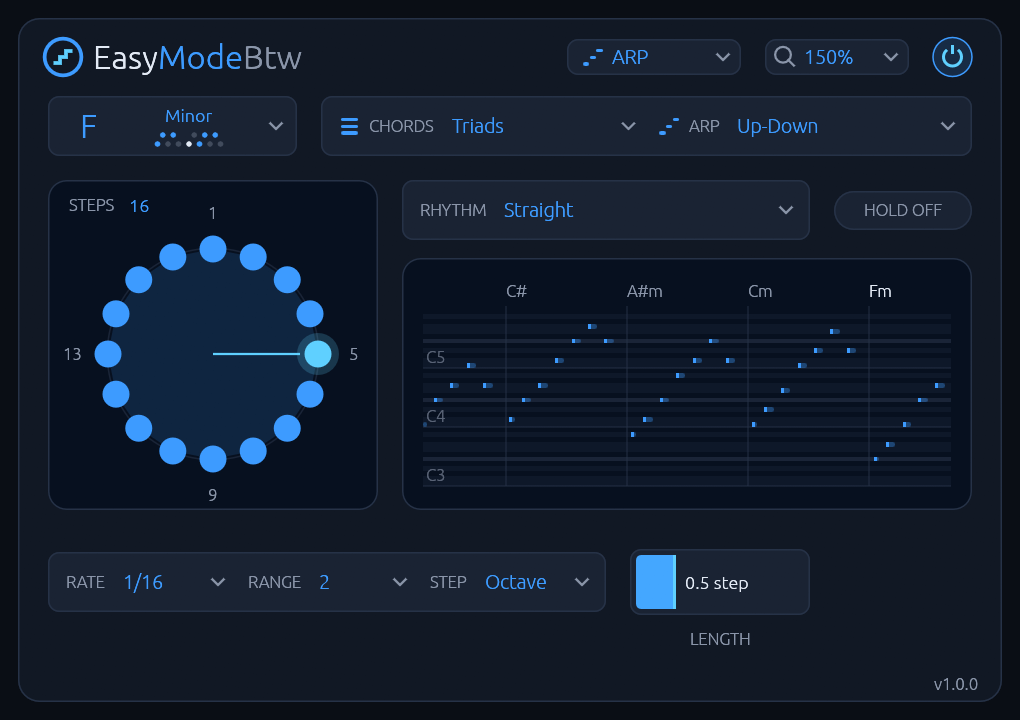
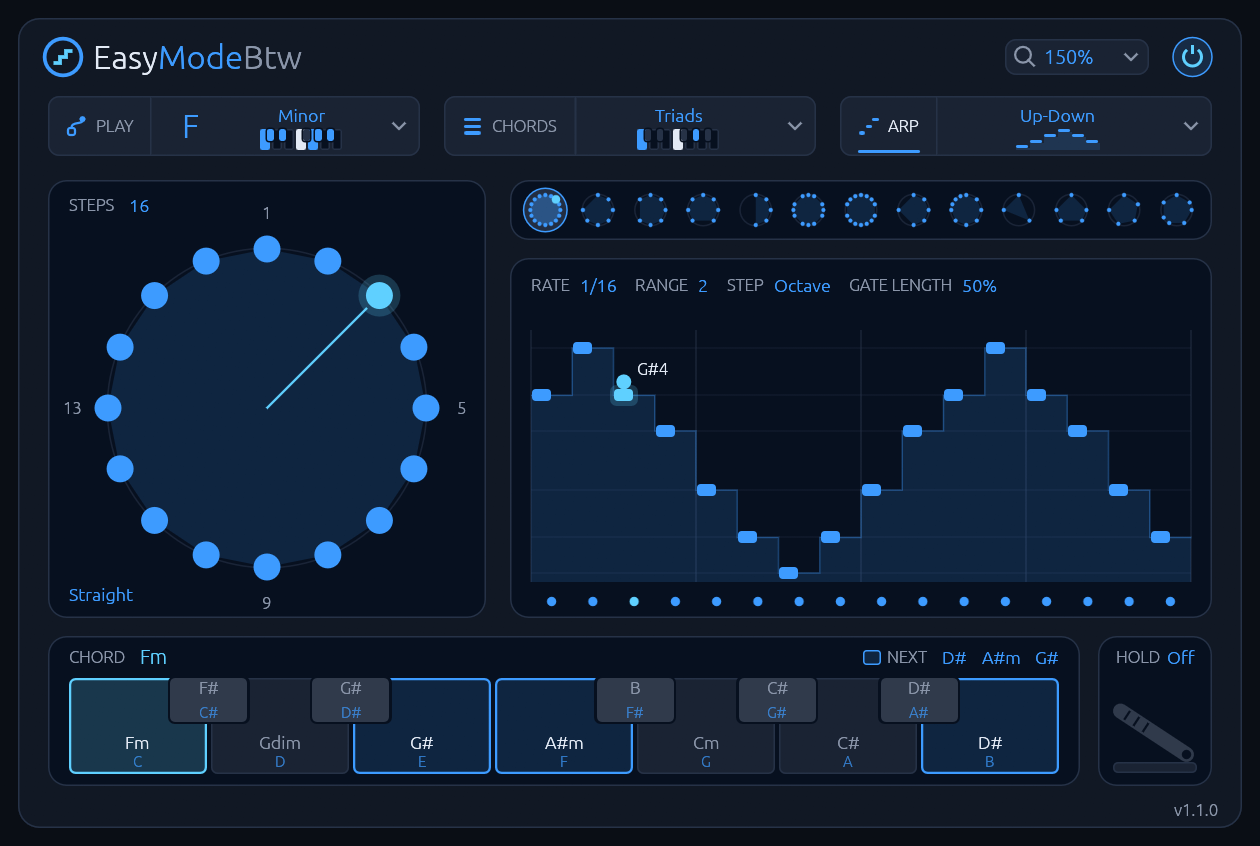
1.1.0: new ARP page, chords on their keys, PLAY as the main screenshot

diff --git a/manual.md b/manual.md
@@ -4,7 +4,7 @@
 the white keys play the notes of the scale you pick with its root on middle C, and each key can
 play a chord of the scale instead, strummed like a guitar or broken into an arpeggio on the beat.
 
-Version 1.0.0. To install it, see the [README](README.md).
+Version 1.1.0. To install it, see the [README](README.md).
 
 ## Getting started
 
@@ -19,18 +19,21 @@ Choose a KEY and a SCALE, then play the white keys from middle C upwards: every 
 scale. Then set CHORDS to Triads and play the white keys again: each one plays a chord. Open the
 PLAY page to see which notes every key sends.
 
-![The PLAY page: a white key fanning out into an F minor chord](images/play.png)
+![The PLAY page in F minor: a white key fanning out into a chord, the chords before it rising above](images/screenshot.png)
 
 ## The controls
 
-The header holds the page select (PLAY, CHORDS or ARP), the zoom select and the power switch.
-Below it one row holds the key and scale, CHORDS and ARP; under that is the page.
+The header holds the zoom select and the power switch. Below it one row holds three selectors:
+the key and scale, CHORDS and ARP. A click on a selector's icon or caption shows its page (PLAY,
+CHORDS or ARP), and a click on its value opens its list of tiles. The scales and chord sets have a
+little keyboard with their notes lit, the chord sets showing what they play on the key you last
+held; the arp orders have their stairs. Hover a tile and it performs. Under the row is the page.
 
 | Control | Range | Default | What it does |
 | --- | --- | --- | --- |
 | **Power switch** (top right) | On / Off | On | Off, every event passes through unchanged. |
 | **KEY** | C to B | C | The scale's root: the note middle C plays. |
-| **SCALE** | 14 scales | Major | The scale the white keys walk through. |
+| **SCALE** | 14 scales | Chromatic | The scale the white keys walk through. |
 | **CHORDS** | Off, Triads, Sevenths, Sus2, Sus4, Add9, Jazz, Bossa, Soul, Folk, Power | Off | Off plays one note per key; the others a chord on every key. |
 | **ARP** | Off, Up, Down, Up-Down, Converge, As Played, Chord, Random, Piano | Off | Off sends each key's note or chord at once; the others play it one note after another on the beat. |
 | **Strum switch** (CHORDS page) | On / Off | Off | Off, a chord's notes start together. |
@@ -40,9 +43,9 @@ Below it one row holds the key and scale, CHORDS and ARP; under that is the page
 | **RATE** (ARP page) | 1/4, 1/8., 1/8, 1/8T, 1/16, 1/16T, 1/32 | 1/16 | How far apart the arp's steps are. |
 | **RANGE** (ARP page) | 1 to 4 | 1 | How many times the run plays, each time higher. |
 | **STEP** (ARP page) | Octave, 2nd, 3rd, 4th, 5th, 6th | Octave | How far each repeat climbs: an octave, or that far up the scale, so it never leaves the key. |
-| **LENGTH** (ARP page) | 0.05 to 2 steps | 0.5 step | How long each note lasts. 1 step lasts until the next note; more overlaps it. |
-| **HOLD** (ARP page) | On / Off | Off | Let go and the arp plays on, until the next chord you play after letting every key go. |
-| **RHYTHM** (ARP page) | Straight and 12 rhythms | | Loads a rhythm into the step ring. |
+| **GATE LENGTH** (ARP page) | 5 to 100 % | 50 % | How long each note lasts, as a share of its step. 100 % lasts until the next note. |
+| **HOLD** (ARP page, the sustain pedal) | On / Off | Off | Let go and the arp plays on, until the next chord you play after letting every key go. |
+| **Rhythm shelf** (ARP page) | Straight and 12 rhythms | | Loads a rhythm into the step ring. |
 | **Step ring** (ARP page) | 1 to 32 steps | 16, all playing | Which steps play and how loud. Saved with the project. |
 | **Zoom** (header) | 100 to 200 % | 100 % | Sizes the window. |
 
@@ -67,8 +70,8 @@ Roots C to F sit on or above middle C, and F# to B just below it, so the playabl
 centred. A five-note pentatonic repeats every five white keys, so your hands cover more than an
 octave for the same reach, which makes fast runs easy.
 
-**Chromatic** plays every key, black ones too, each its own note moved so middle C plays the root:
-in C, the keyboard as it is.
+**Chromatic**, where a new instance starts, plays every key, black ones too, each its own note moved
+so middle C plays the root: in C, the keyboard as it is.
 
 ### Chords
 
@@ -81,15 +84,16 @@ With CHORDS on, each key plays a chord built on its note.
 - **Power:** the root and a perfect fifth on every key, as rock plays it.
 
 The black keys play a major chord on their own note (bII, bIII, #IV, bVI, bVII), the chords songs
-borrow from outside the key. Each chord is voiced to move as little as it can from the one before,
-so a progression sounds smooth without thinking about inversions.
+borrow from outside the key. Each chord plays in root position on the note its key plays alone, the
+same notes the arp plays from.
 
 The **CHORDS page** shows the last four seconds of notes with each chord's name, the strum, and a
 key map: one octave of keys, each naming the chord it plays. The chord sounding glows on its key,
-and three chords that would sound good next are lit on theirs. Click a key on the map to hear its
-chord: near its top it plays soft, near its foot loud.
+and three chords that would sound good next are lit on theirs and named after NEXT. Where a white
+and a black key play the same chord, the white one lights. Click a key on the map to hear its
+chord, in the octave of the last note you played: near its top it plays soft, near its foot loud.
 
-![The CHORDS page in F minor, triads strummed over 60 ms](images/screenshot.png)
+![The CHORDS page in F minor, triads strummed over 60 ms](images/chords.png)
 
 ### Strum
 
@@ -99,7 +103,7 @@ high the notes come evenly; high to low they speed up, as an up stroke does. Sta
 40 ms for a soft strum and 60 to 100 ms for a slow, harp-like one.
 
 The direction select picks up and down in turn, only up or only down. The voicing select lays
-each chord out **Close**, near the chord before, or as a **Guitar** grips it: the root low in the
+each chord out **Close**, in root position, or as a **Guitar** grips it: the root low in the
 bass, then the fifth, the root or seventh, the third and the fifth again. The strum only delays
 notes, so it adds no latency.
 
@@ -117,11 +121,21 @@ beat. While the transport stands it runs at the host's tempo from the first key.
 RANGE plays the run up to four times, each time higher by STEP. A chord played a little late still
 starts on its root.
 
-The **ARP page** has the step ring. Click a step to turn it on or off, drag it towards the centre
+The **ARP page** shows the stairs: what the arp plays over one turn of its rhythm, a ball hopping
+from note to note with the note's name and the ring's rests as gaps. RATE, RANGE, STEP and GATE
+LENGTH are in their header: click one for its menu, or drag it up and down, or scroll. Drag the end
+of any note to set GATE LENGTH.
+
+Beside the stairs is the step ring. Click a step to turn it on or off, drag it towards the centre
 to make it softer and away to make it louder, and double-click it for full. Drag around the ring
-elsewhere to turn the rhythm, and drag the number of steps up or down to change it. RHYTHM loads a
-pattern into the ring: Straight, eight of the commonest broken-chord bars in pop piano, and the
+elsewhere to turn the rhythm, and drag the number of steps up or down to change it. The shelf of
+tiny rings loads a pattern into it: hover one to see it over the big ring with its name, and click
+to load it. It has Straight, eight of the commonest broken-chord bars in pop piano, and the
 tresillo, cinquillo, bossa and bell rhythms.
+
+Below are the keys from the CHORDS page, playable with the mouse, with the chords to play next lit
+on them; with CHORDS Off each key names the note it plays. HOLD is the sustain pedal beside them:
+click to stomp it, and it stays down.
 
 ![The ARP page playing Up-Down over two octaves](images/arp.png)
 
@@ -139,8 +153,10 @@ it records the plugin's output.
 - **Latency:** none. The strum and the arp only delay notes.
 - **Automation:** KEY, SCALE, CHORDS and ARP changes take effect at the exact sample they are drawn
   at.
-- **Saved projects:** a project saved with 0.1.x plays as before, except one saved with SCALE on
-  Chromatic, which now plays every key.
+- **Saved projects:** a project saved with 1.0 keeps its settings, but its chords now play in root
+  position on each key's own note, so one using CHORDS sounds different. A GATE LENGTH saved above
+  100 % keeps its value until you touch the control. A project saved with 0.1.x plays as before,
+  except one saved with SCALE on Chromatic, which now plays every key.
 - **Changing settings while you play:** a held note keeps sounding until you let go of its key, and
   then the right notes end, so nothing gets stuck. Switching ARP or the power switch ends what
   sounds; press the keys again.

diff --git a/README.md b/README.md
@@ -5,12 +5,12 @@ the white keys play the notes of the scale you pick with its root on middle C, a
 play a chord of the scale instead, strummed like a guitar or broken into an arpeggio on the beat.
 CLAP for Linux.
 
-![EasyModeBtw in F minor playing triads strummed over 60 ms, with the chords on the key map](images/screenshot.png)
+![EasyModeBtw's PLAY page in F minor: a white key fanning out into a chord, the chords before it rising above](images/screenshot.png)
 
 Pick F minor, and the white keys from C3 upwards play F G Ab Bb C Db Eb F. Put EasyModeBtw in
 front of any instrument and you can't play a wrong note. Turn on CHORDS and every white key plays
-the scale's chord on its note, voiced to move smoothly from the last one; turn on the strum or the
-ARP and those chords come out one note at a time. It works like the Easy Mode of Native
+the scale's chord on its note; turn on the strum or the ARP and those chords come out one note at
+a time. It works like the Easy Mode of Native
 Instruments' Smart Play. It has no audio inputs or outputs: it only rewrites MIDI notes.
 
 It runs natively on Linux, with no network access and no telemetry.
@@ -23,7 +23,7 @@ It runs natively on Linux, with no network access and no telemetry.
 - **Chords on every key:** Triads, Sevenths, Sus2, Sus4, Add9 or Power, or the chord Jazz, Bossa, Soul or Folk most often puts on that note. The black keys play borrowed major chords.
 - **A key map that suggests:** each key names the chord it plays, and three good chords to play next light up.
 - **Strum:** a chord's notes start one after another, up to 100 ms, up and down in turn or one way, voiced close or as a guitar grips it. No added latency.
-- **Arpeggiator on the host's beat:** eight patterns, from Up and Down to a pop-piano figure, 1/4 to 1/32 with dotted and triplet rates, up to 4 repeats climbing an octave or up the scale, HOLD, and a 16-step rhythm ring with rhythm presets.
+- **Arpeggiator on the host's beat:** eight patterns, from Up and Down to a pop-piano figure, 1/4 to 1/32 with dotted and triplet rates, up to 4 repeats climbing an octave or up the scale, stairs that show what it plays, HOLD on a sustain pedal, and a 16-step rhythm ring with a shelf of rhythms.
 - **See what you play:** the PLAY page draws a thread from every key you hold to the notes it sends. Click the keys with the mouse to try everything without a keyboard.
 - **No stuck notes:** a note-off always ends the notes its note-on started, even if you change the key, scale or chords while holding it.
 - **Everything else passes through:** pitch bend, mod wheel and other CCs, channel pressure and program changes are untouched.
@@ -36,10 +36,10 @@ Download the latest version from the [Releases page](https://github.com/rmnhofma
 or with these commands:
 
 ```bash
-curl -LO https://github.com/rmnhofma/EasyModeBtw-release/releases/download/v1.0.0/EasyModeBtw-1.0.0-linux-x86_64.tar.gz
-curl -LO https://github.com/rmnhofma/EasyModeBtw-release/releases/download/v1.0.0/EasyModeBtw-1.0.0-linux-x86_64.tar.gz.sha256
-sha256sum -c EasyModeBtw-1.0.0-linux-x86_64.tar.gz.sha256 && tar xzf EasyModeBtw-1.0.0-linux-x86_64.tar.gz
-cd EasyModeBtw-1.0.0-linux-x86_64
+curl -LO https://github.com/rmnhofma/EasyModeBtw-release/releases/download/v1.1.0/EasyModeBtw-1.1.0-linux-x86_64.tar.gz
+curl -LO https://github.com/rmnhofma/EasyModeBtw-release/releases/download/v1.1.0/EasyModeBtw-1.1.0-linux-x86_64.tar.gz.sha256
+sha256sum -c EasyModeBtw-1.1.0-linux-x86_64.tar.gz.sha256 && tar xzf EasyModeBtw-1.1.0-linux-x86_64.tar.gz
+cd EasyModeBtw-1.1.0-linux-x86_64
 ```
 
 Install for your user:
